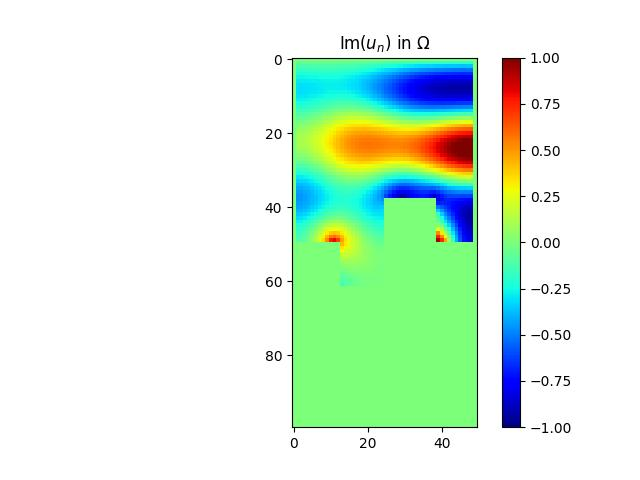
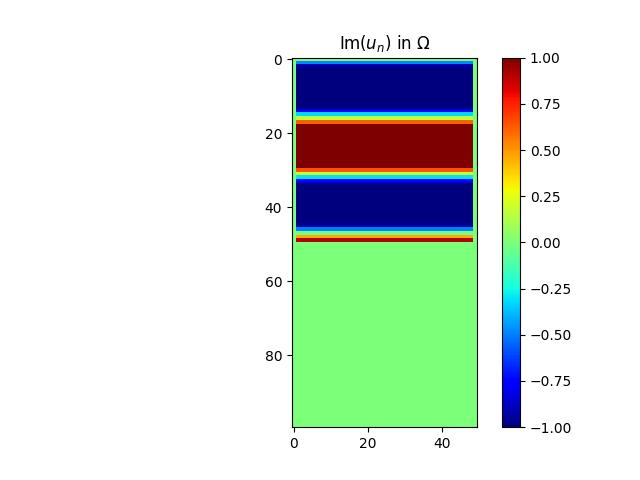
updating

Changed region(s): [[0.4375, 0.125, 0.75, 0.5938]]

diff --git a/testing_HelmolzSolver.py b/testing_HelmolzSolver.py
@@ -61,13 +61,13 @@ def compute_projected(chi, domain, V_obj):
             for j in range(N):
                 chi[i, j] = numpy.maximum(0, numpy.minimum(B[i, j] + l, 1))
         chi = preprocessing.set2zero(chi, domain)
-        V = sum(sum(chi)) / S
+        V = numpy.sum(chi) / S
         if V > V_obj:
             fin = l
         else:
             debut = l
         ecart = fin - debut
-        # print('le volume est', V, 'le volume objectif est', V_obj)
+        print('le volume est', V, 'le volume objectif est', V_obj)
 
     return chi
 
@@ -173,7 +173,7 @@ def your_optimization_procedure(domain_omega, spacestep, f, f_dir, f_neu, f_rob,
         print('4. computing parametric gradient')
         grad = numpy.real(Alpha*u*p)
         postprocessing.myimshow(grad, title='$gradient évalué en \chi$', colorbar='colorbar', cmap='jet', vmin=-1, vmax=1, filename=f'fig_grad.jpg')
-
+        print(chi[50], k)
         while ene >= energy[k] and mu > EPSILON0:
             print('    a. computing gradient descent')
             new_chi = compute_gradient_descent(chi, grad, domain_omega, mu)
@@ -188,7 +188,7 @@ def your_optimization_procedure(domain_omega, spacestep, f, f_dir, f_neu, f_rob,
             print("energie: ",ene)
             if ene <  energy[k]:
                 # The step is increased if the energy decreased
-                mu = mu * 1.1
+                mu = mu * 1.1    
                 chi = new_chi_proj
             else:
                 # The step is decreased is the energy increased
@@ -230,7 +230,7 @@ if __name__ == '__main__':
     # -- set parameters of the geometry
     N = 50  # number of point2 along x-axis
     M = 2 * N  # number of points along y-axis
-    level = 1 # level of the fractal
+    level = 0 # level of the fractal
     spacestep = 1.0 / N  # mesh size
 
     # -- set parameters of the partial differential equation
@@ -267,12 +267,13 @@ if __name__ == '__main__':
 
     # -- define material density matrix
     chi = preprocessing._set_chi(M, N, x, y)
- 
+    chi = numpy.ones((M,N))
     chi = preprocessing.set2zero(chi, domain_omega)
 
 
     # -- define absorbing material
     Alpha = 10.0 - 10.0 * 1j
+
     # -- this is the function you have written during your project
     #import compute_alpha
     #Alpha = compute_alpha.compute_alpha(...)
@@ -297,7 +298,6 @@ if __name__ == '__main__':
                         beta_pde, alpha_pde, alpha_dir, beta_neu, beta_rob, alpha_rob)
     chi0 = chi.copy()
     u0 = u.copy()
-
     # ----------------------------------------------------------------------
     # -- Fell free to modify the function call in this cell.
     # ----------------------------------------------------------------------
@@ -322,5 +322,4 @@ if __name__ == '__main__':
     postprocessing._plot_error(err)
     postprocessing._plot_energy_history(energy)
     print("Valeur des énergies : ", energy)
-
     print('End.')
